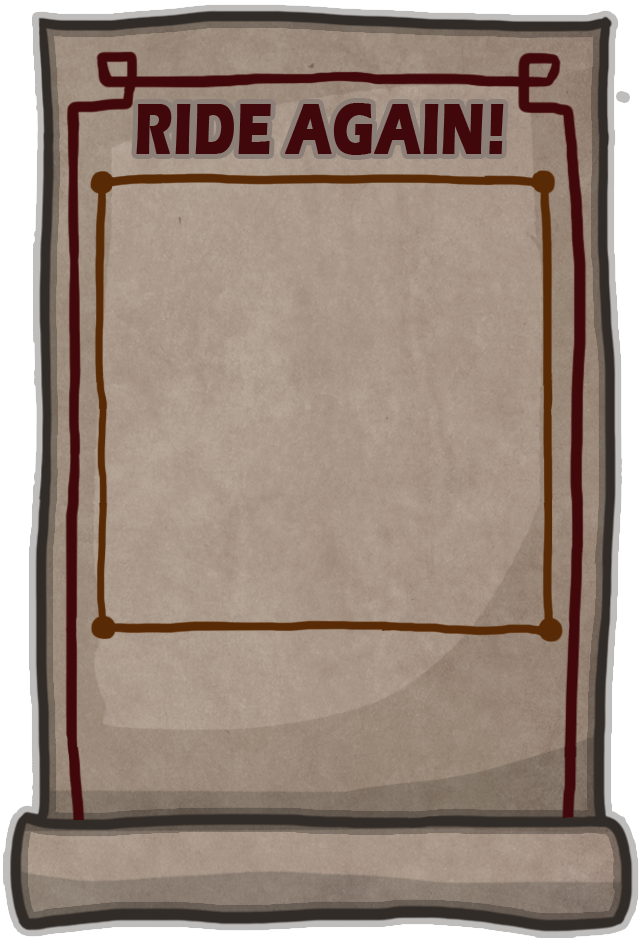
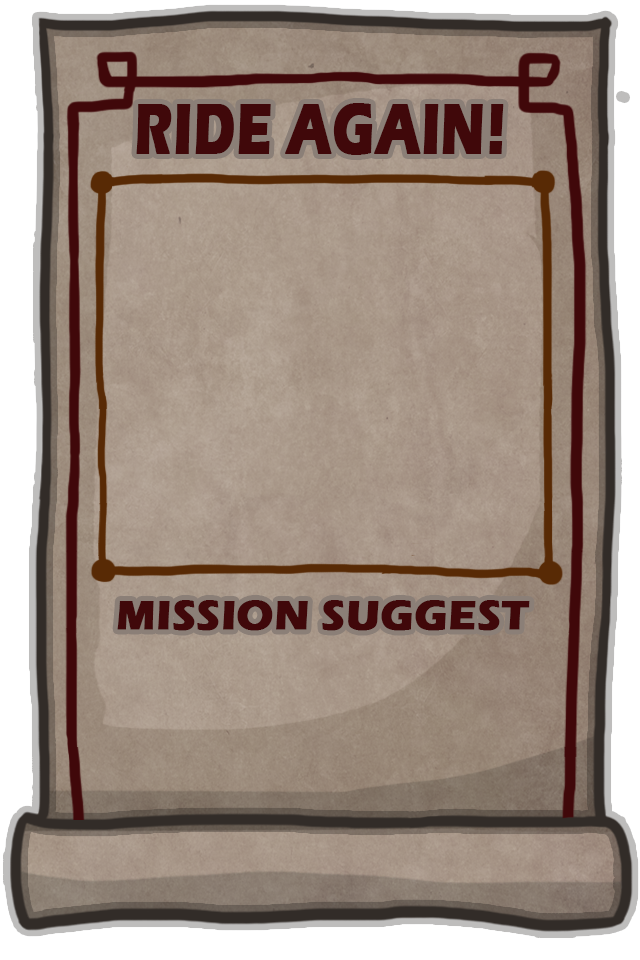
New dead ui

diff --git a/DumplingJump/DU/Classes/DeadUI.mm b/DumplingJump/DU/Classes/DeadUI.mm
@@ -13,6 +13,8 @@
 #import "DeadAchievementUI.h"
 #import "CCBReader.h"
 #import "EquipmentData.h"
+#import "AchievementNode.h"
+#import "AchievementManager.h"
 
 @implementation DeadUI
 +(id) shared
@@ -103,6 +105,27 @@
     }
     
     [self updateNewItemSign];
+}
+
+-(void) updateNextMission:(NSDictionary *)nextMissionData
+{
+    [nextMission.UnlockIcon setVisible:NO];
+    
+    //update title
+    [nextMission.MissionName setString:[nextMissionData objectForKey:@"name"]];
+    
+    //update description
+    NSString *description2 = [nextMissionData objectForKey:@"description2"];
+    if (description2 == nil)
+    {
+        description2 = @"";
+    }
+    [nextMission.DescriptionText setString:[NSString stringWithFormat:@"%@ %d %@", [nextMissionData objectForKey:@"description1"], [[nextMissionData objectForKey:@"number"] intValue], description2]];
+    
+    //percentage of how much you have finished (for life type)
+    float percentage = [[AchievementManager shared] getFinishPercentageWithType:[nextMissionData objectForKey:@"type"] target:[[nextMissionData objectForKey:@"number"] floatValue]];
+    
+    [nextMission.Bar setScaleY:percentage];
 }
 
 -(void) updateNewItemSign
@@ -248,6 +271,8 @@
     [multiplierText release];
     [newItemText release];
     [equipmentViewController release];
+    
+    [nextMission release];
 }
 
 @end

diff --git a/DumplingJump/DU/Classes/DeadUI.h b/DumplingJump/DU/Classes/DeadUI.h
@@ -8,6 +8,8 @@
 
 #import "DUUI.h"
 #import "EquipmentViewController.h"
+@class AchievementNode;
+
 @interface DeadUI : DUUI <EquipmentViewControllerDelegate>
 {
     EquipmentViewController *equipmentViewController;
@@ -31,8 +33,11 @@
     CCLabelBMFont *multiplierText;
     CCLabelBMFont *newItemText;
     
+    AchievementNode *nextMission;
+    
     CGSize winsize;
 }
 +(id) shared;
 -(void) updateUIDataWithScore:(int)score Star:(int)star TotalStar:(int)totalStar Distance:(int)distance Multiplier:(float)multiplier IsHighScore:(BOOL)isHighScore;
+-(void) updateNextMission:(NSDictionary *)nextMissionData;
 @end

diff --git a/DumplingJump/DU/Classes/AchievementData.m b/DumplingJump/DU/Classes/AchievementData.m
@@ -100,4 +100,20 @@
     return res;
 }
 
+- (NSDictionary *) getNextMission:(int)groupID
+{
+    NSDictionary *result = nil;
+    for (int i=1; i<=4; i++)
+    {
+        NSString *key = [NSString stringWithFormat:@"%d-%d", groupID, i];
+        if ([[((UserData *)[UserData shared]).userAchievementDataDictionary objectForKey:key] isEqualToString:@"NO"])
+        {
+            result = [self.achievementDictionary objectForKey:key];
+            break;
+        }
+    }
+    
+    return result;
+}
+
 @end

diff --git a/DumplingJump/DU/Classes/GameLayer.mm b/DumplingJump/DU/Classes/GameLayer.mm
@@ -429,6 +429,7 @@
 {
     [[DeadUI shared] createUI];
     [[DeadUI shared] updateUIDataWithScore:(int)(self.model.distance*self.model.multiplier) Star:self.model.star TotalStar:[[USERDATA objectForKey:@"star"] intValue] Distance:self.model.distance Multiplier:self.model.multiplier IsHighScore:self.model.isHighScore];
+    [[DeadUI shared] updateNextMission:[[AchievementData shared] getNextMission:[[USERDATA objectForKey:@"achievementGroup"] intValue]]];
 }
 
 -(BOOL) isHighScore

diff --git a/DumplingJump/DU/Classes/ItemUnlockUI.mm b/DumplingJump/DU/Classes/ItemUnlockUI.mm
@@ -45,6 +45,7 @@
     [onMedalMultiplierText setString:[NSString stringWithFormat:@"%dx", currentGroup+1]];
     [multiplierNum setString:[NSString stringWithFormat:@"%dx", currentGroup+1]];
     
+    starNum = 0;
     targetStarNum = 1000;
     id delay = [CCDelayTime actionWithDuration:3.6];
     id tweenNum = [CCActionTween actionWithDuration:1 key:@"starNum" from: 0 to: targetStarNum];

diff --git a/DumplingJump/DU/Classes/AchievementData.h b/DumplingJump/DU/Classes/AchievementData.h
@@ -18,4 +18,5 @@
 - (NSArray *) getAllAchievementsByGroupID:(int)groupID;
 - (NSInteger) getMaxGroupNumber;
 - (BOOL) hasUnlockedAllAchievementsByGroup:(int)groupID;
+- (NSDictionary *) getNextMission:(int)groupID;
 @end
